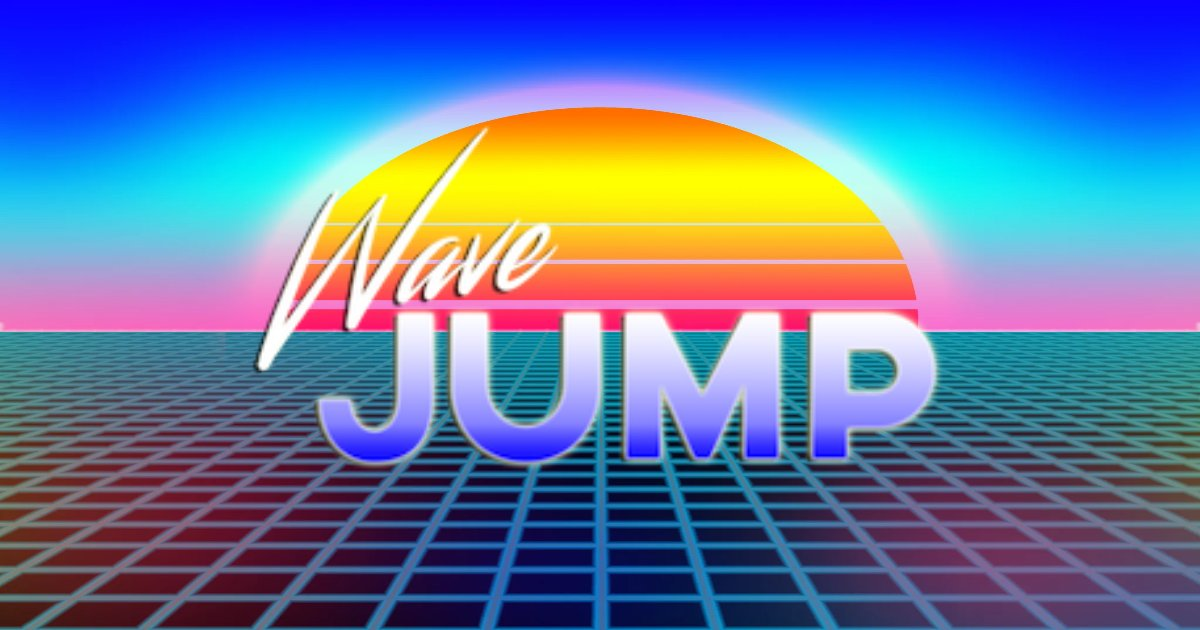
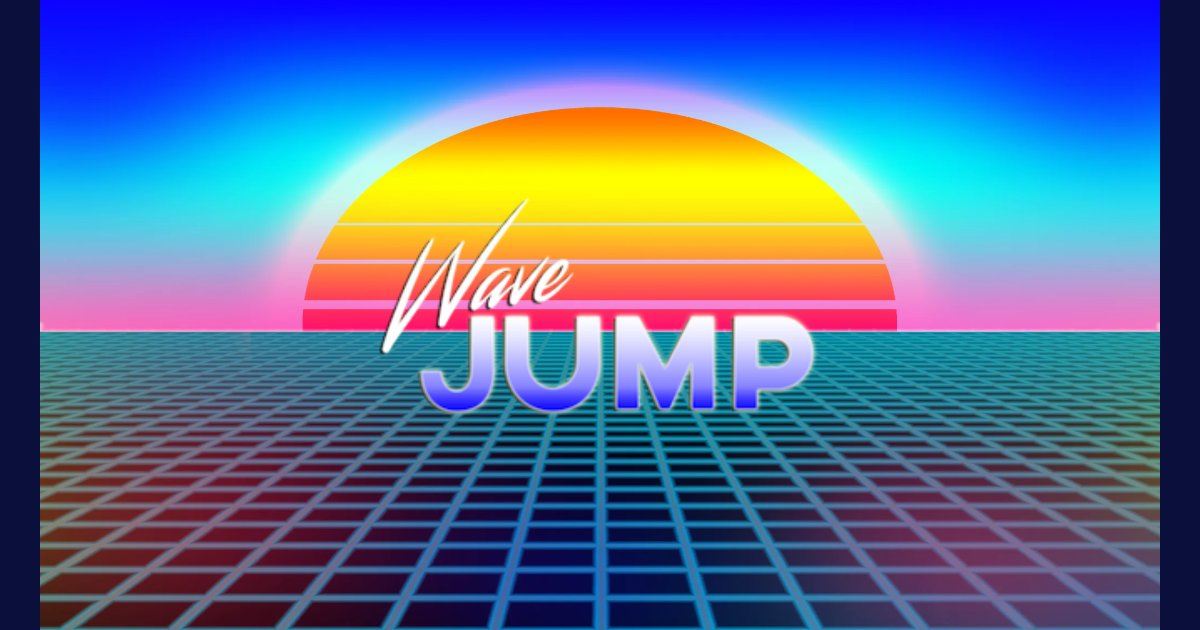
fix: Wave Jump plays the same on every screen, and players stop falling through the wave
- The world was sized to the window, but spawn points, the gate and the text
  were placed for about 1080p. In the 960x540 embed on joekarlsson.com the gate
  spawned below the bottom of the screen, so nobody could score; on a 4K
  screen it sat above the wave. The game is now a fixed 1920x1080 world scaled
  to fit the window (and it follows resizes), drawn with WebGL when available.
- Wave collision bodies were 7px deep, so on big, slower-drawing screens a
  player landing at spawn could pass through between frames (3 of 24 spawns at
  2560px). They're 24px deep now: 0 of 32 fell through, and dives still go
  through every time.
- npm audit is clean: minimatch is overridden to 11.0.5 (ESLint still asks
  for 10.x).
- Tests cover landing on the wave, the gate on screen, and the small-window
  embed. Dropped dead README links.

diff --git a/tests/smoke.spec.js b/tests/smoke.spec.js
@@ -53,6 +53,17 @@ test.describe('desktop', () => {
     await page.waitForFunction(() => window.game.state.current === 'Game')
     await page.keyboard.up('Space')
 
+    // Both players land on the wave instead of falling through it, and the gate is on screen
+    await page.waitForTimeout(1500)
+    const layout = await page.evaluate(() => {
+      const round = window.game.state.states.Game
+      return {
+        landed: [round.player1.y, round.player2.y].every((y) => y < round.waves.y + 250),
+        gateOnScreen: round.raceGate.y > 0 && round.raceGate.y < window.game.height
+      }
+    })
+    expect(layout).toEqual({ landed: true, gateOnScreen: true })
+
     await page.keyboard.down('d')
     await page.keyboard.down('ArrowLeft')
     await page.waitForTimeout(2000)
@@ -67,6 +78,20 @@ test.describe('desktop', () => {
     }))
     expect(overflow).toEqual({ wide: false, tall: false })
     expect(errors).toEqual([])
+  })
+})
+
+test.describe('small window', () => {
+  test.skip(({ isMobile }) => isMobile, 'keyboard game')
+  test.use({ viewport: { width: 960, height: 540 } })
+
+  test('scales the 1920x1080 game down to fit, like the embed on joekarlsson.com', async ({ page }) => {
+    await page.goto('/')
+    await page.waitForFunction(() => window.game?.state.current === 'Splash')
+    const box = await page.locator('#content canvas').boundingBox()
+    expect(box.width).toBeLessThanOrEqual(960)
+    expect(box.height).toBeLessThanOrEqual(540)
+    expect(await page.evaluate(() => [window.game.width, window.game.height])).toEqual([1920, 1080])
   })
 })
 

diff --git a/src/states/Game.js b/src/states/Game.js
@@ -40,7 +40,9 @@ export default class GameState extends Phaser.State {
       let wave = this.game.add.sprite(x, y, 'tempWave', this.game.rnd.between(0, 1))
       wave.anchor.set(0.5, 0.5)
       this.physics.enable(wave, Phaser.Physics.ARCADE)
-      wave.body.setSize(7, 7, 0, 0)
+      // Deep enough that a landing player can't pass through between frames, shallow
+      // enough that a dive (S or down, ~58px a frame) still goes through
+      wave.body.setSize(7, 24, 0, 0)
       this.waves.add(wave)
       wave.collideWorldBounds = true
       wave.body.immovable = true

diff --git a/src/main.js b/src/main.js
@@ -9,9 +9,9 @@ import Player2WinState from './states/Player2Win'
 
 export class Game extends Phaser.Game {
   constructor () {
-    const { clientWidth, clientHeight } = document.documentElement
-
-    super(clientWidth, clientHeight, Phaser.CANVAS, 'content', null)
+    // A fixed 1920x1080 world, scaled to fit the window (see Boot), so the
+    // spawn points, gate and text land in the same places on every screen
+    super(1920, 1080, Phaser.AUTO, 'content', null)
 
     this.state.add('Boot', BootState, false)
     this.state.add('Splash', SplashState, false)

diff --git a/src/states/Boot.js b/src/states/Boot.js
@@ -5,6 +5,9 @@ export default class extends Phaser.State {
     this.game.scoreP1 = 0
     this.game.scoreP2 = 0
     this.stage.backgroundColor = '#EDEEC9'
+    this.scale.scaleMode = Phaser.ScaleManager.SHOW_ALL
+    this.scale.pageAlignHorizontally = true
+    this.scale.pageAlignVertically = true
     this.fontsReady = false
   }
 

diff --git a/index.html b/index.html
@@ -99,6 +99,14 @@
         clip-path: inset(50%);
         white-space: nowrap;
       }
+      html,
+      body {
+        background: #0a0f3c;
+        overflow: hidden;
+      }
+      #content {
+        height: 100svh;
+      }
       #content canvas {
         display: block;
       }

diff --git a/README.md b/README.md
@@ -114,7 +114,7 @@ Every push to `master` runs lint and the tests in GitHub Actions, then deploys `
 
 ## Contributors
 
-This game was created for the [Global Game Jam 2018](http://globalgamejam.org/) over 48 hours on January 26 - 28, 2018 in Minneapolis, MN.
+This game was created for the [Global Game Jam 2018](https://globalgamejam.org/) over 48 hours on January 26 - 28, 2018 in Minneapolis, MN.
 
 ![wave_jump_team_photo](https://user-images.githubusercontent.com/4650739/35485808-4e223b96-042a-11e8-9bad-c3516f8939c2.jpg)
 
@@ -149,7 +149,7 @@ This game was created for the [Global Game Jam 2018](http://globalgamejam.org/) 
   <tbody>
 </table>
 
-Original music and sounds by [Andrew Hill](https://www.origin414.com/andrew-hill)
+Original music and sounds by Andrew Hill
 
 ### License
 
